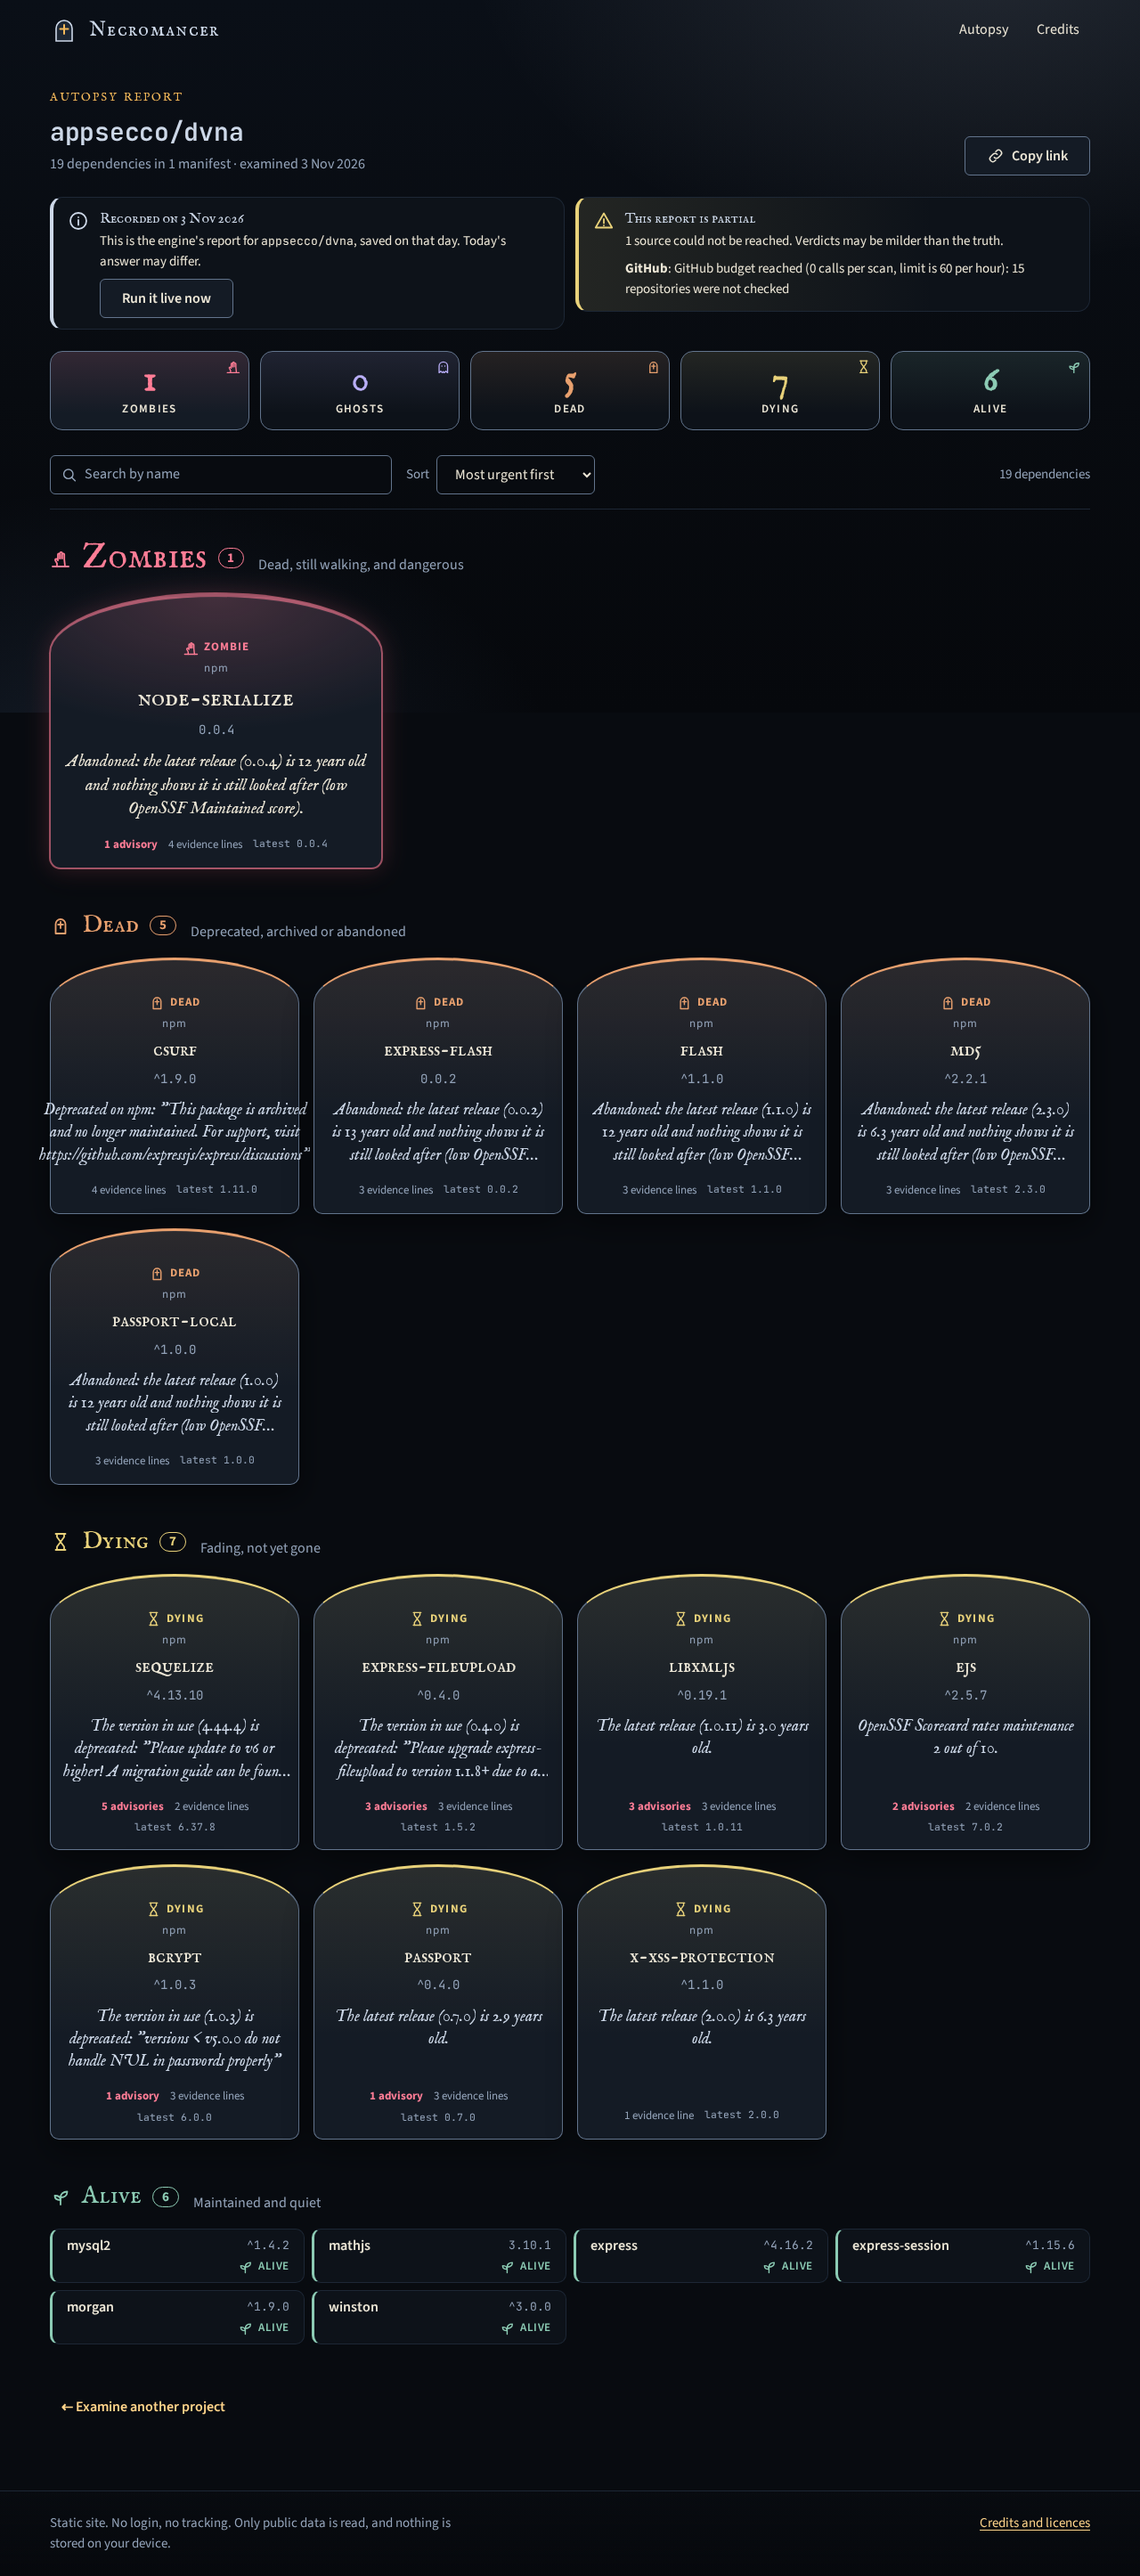
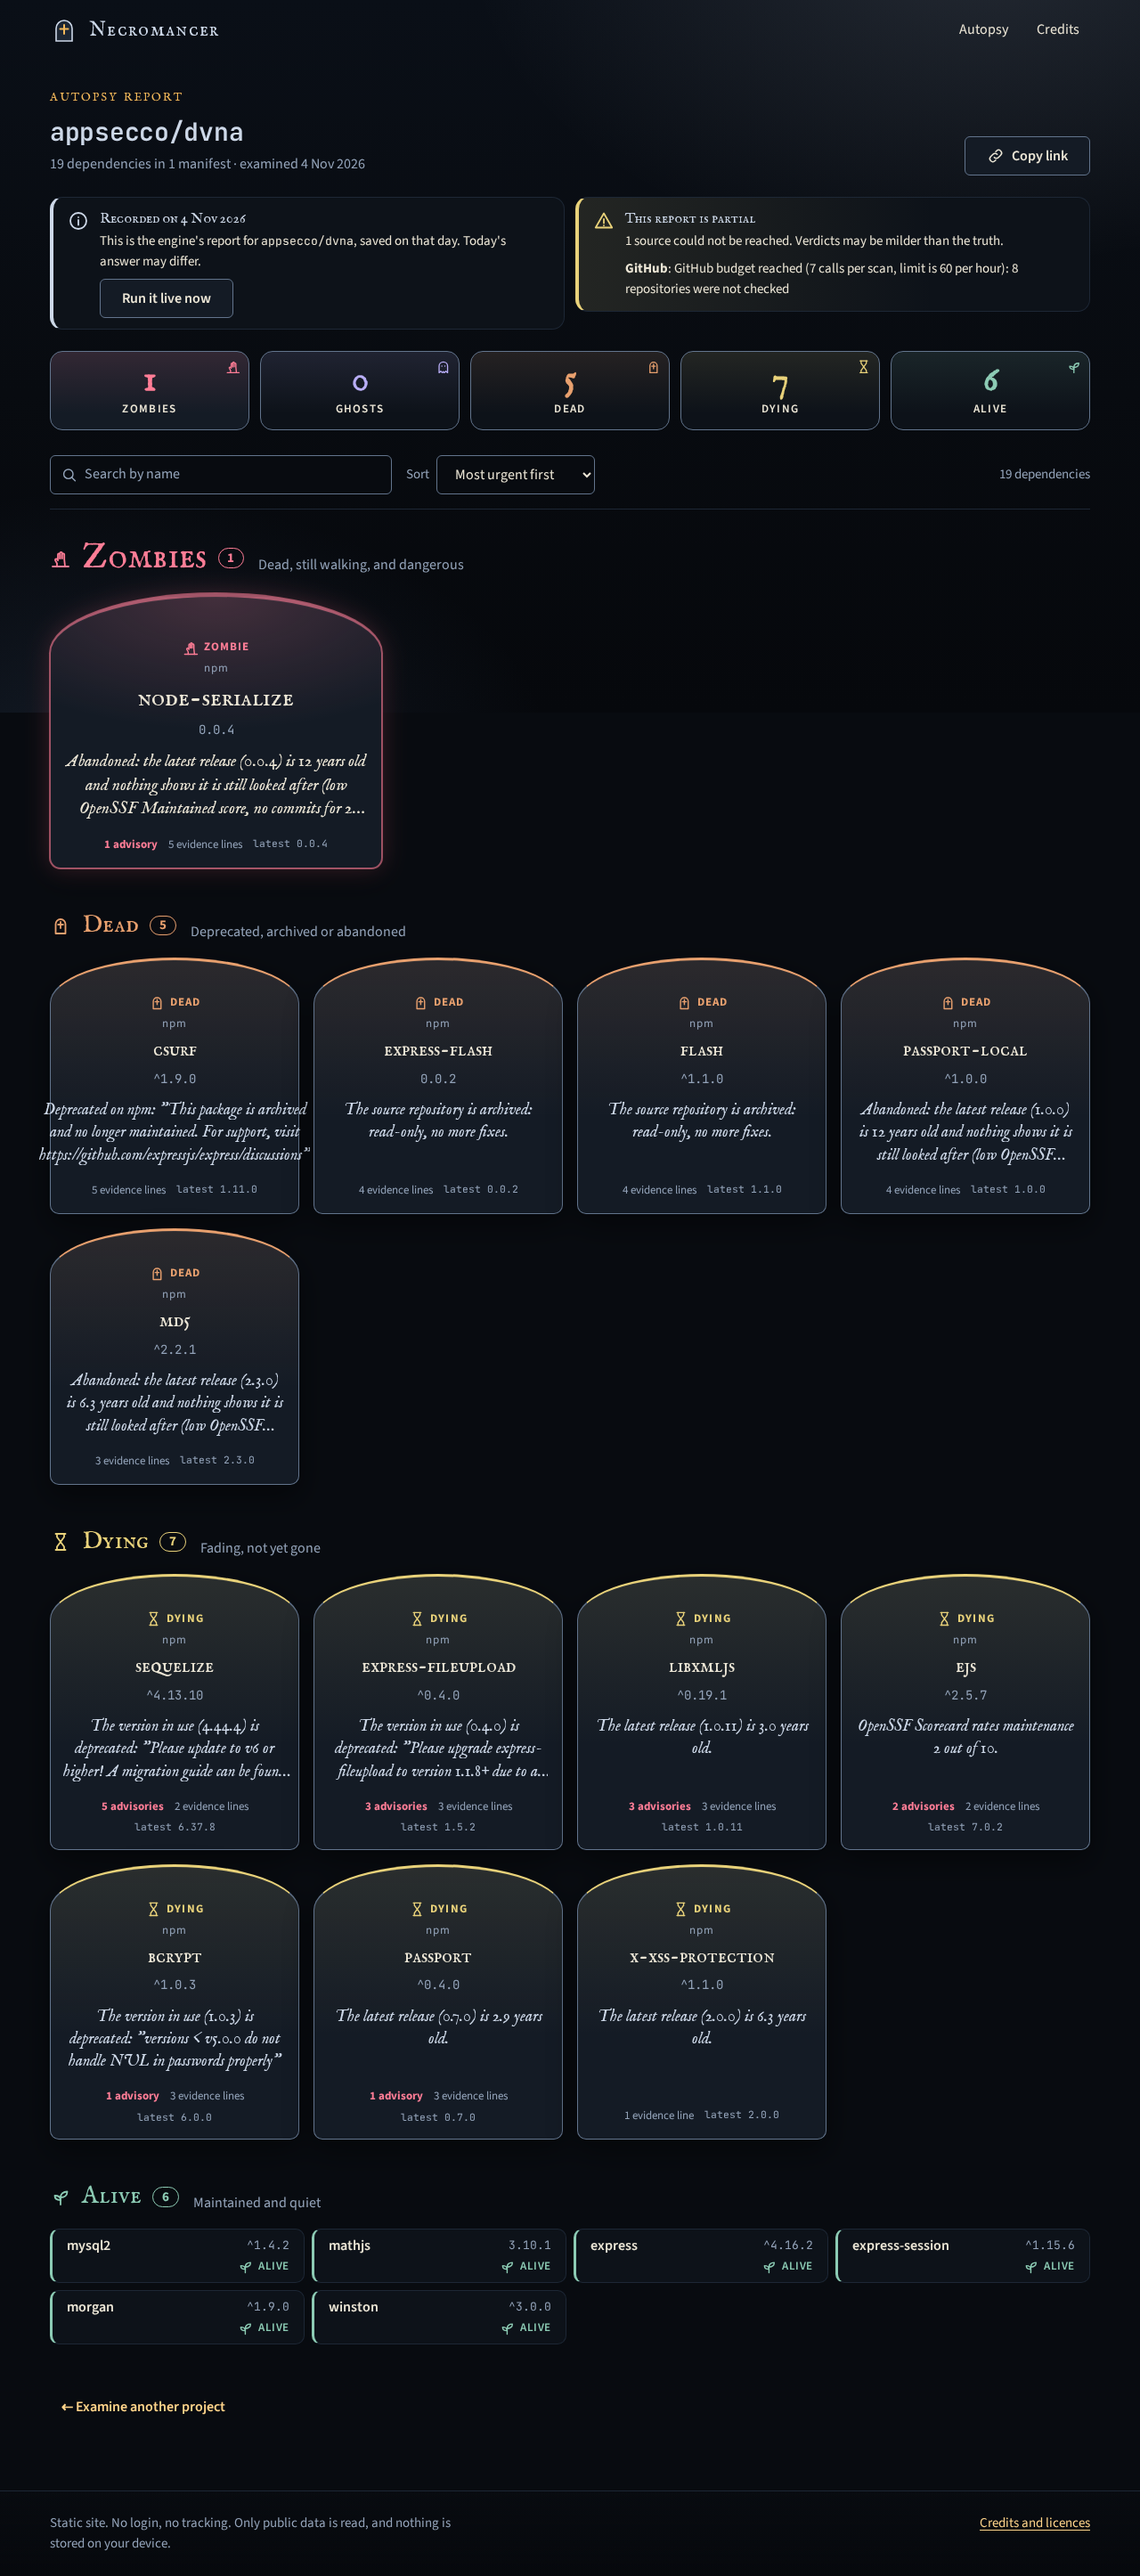
Web: record three real samples, fix e18e stage, wrap long epitaphs, live checks selectable

diff --git a/apps/web/src/ui/About.tsx b/apps/web/src/ui/About.tsx
@@ -43,14 +43,19 @@ export function About() {
       </section>
       <section aria-labelledby="about-data">
         <h2 id="about-data">Where the facts come from</h2>
-        <p>Necromancer reads public data only. No account, no key and no server of ours is involved.</p>
+        <p>Necromancer reads public data only, straight from your browser. No account, no key and no server of ours is involved.</p>
         <ul className="plainlist">
           {SOURCES.map((source) => (
             <li key={source}>{source}</li>
           ))}
         </ul>
         <p>
-          The sample projects hold illustrative findings. They are modelled on real events in the npm and PyPI ecosystems, and some package names in them are invented. They say nothing about any maintainer.
+          The samples on the start page are real. The engine examined those public repositories on the day shown, and
+          the reports are kept exactly as the engine wrote them. Nothing in them was written by hand.
+        </p>
+        <p>
+          A verdict is a reading of public signals, not a judgement of a maintainer. A package can be finished rather
+          than dead, so every verdict shows the evidence behind it.
         </p>
       </section>
       <section aria-labelledby="about-privacy">

diff --git a/apps/web/src/data/samples.generated.ts b/apps/web/src/data/samples.generated.ts
@@ -17,7 +17,7 @@ export const RECORDED_SAMPLES: readonly RecordedSample[] = [
     "id": "appsecco-dvna",
     "repository": "appsecco/dvna",
     "ecosystem": "npm",
-    "recordedAt": "2026-11-03T14:14:40.549Z",
+    "recordedAt": "2026-11-04T00:06:14.482Z",
     "total": 19,
     "summary": {
       "alive": 6,
@@ -31,7 +31,7 @@ export const RECORDED_SAMPLES: readonly RecordedSample[] = [
     "id": "miguelgrinberg-microblog",
     "repository": "miguelgrinberg/microblog",
     "ecosystem": "pypi",
-    "recordedAt": "2026-11-03T14:14:42.127Z",
+    "recordedAt": "2026-11-04T00:06:16.945Z",
     "total": 54,
     "summary": {
       "alive": 36,
@@ -45,7 +45,7 @@ export const RECORDED_SAMPLES: readonly RecordedSample[] = [
     "id": "sickchill-sickchill",
     "repository": "SickChill/sickchill",
     "ecosystem": "both",
-    "recordedAt": "2026-11-03T14:14:44.192Z",
+    "recordedAt": "2026-11-04T00:06:20.919Z",
     "total": 105,
     "summary": {
       "alive": 64,

diff --git a/apps/web/src/data/net.test.ts b/apps/web/src/data/net.test.ts
@@ -6,7 +6,7 @@ const respond = (status: number) => ({ ok: status < 300, status, json: async () 
 describe('R3.1 stages', () => {
   it.each([
     ['https://raw.githubusercontent.com/o/r/HEAD/package.json', 'manifests'],
-    ['https://raw.githubusercontent.com/e18e/module-replacements/main/manifests/native.json', 'repositories'],
+    ['https://raw.githubusercontent.com/es-tooling/module-replacements/main/manifests/native.json', 'repositories'],
     ['https://registry.npmjs.org/left-pad/latest', 'registries'],
     ['https://pypi.org/pypi/six/json', 'registries'],
     ['https://api.deps.dev/v3/systems/npm/packages/left-pad', 'registries'],

diff --git a/apps/web/src/data/net.ts b/apps/web/src/data/net.ts
@@ -42,7 +42,7 @@ export function classify(url: string): { stage: Stage | null; label: string } {
   }
   const { hostname, pathname } = parsed;
   if (hostname === 'raw.githubusercontent.com') {
-    return pathname.startsWith('/e18e/')
+    return pathname.startsWith('/es-tooling/module-replacements/')
       ? { stage: 'repositories', label: 'raw.githubusercontent.com (e18e dataset)' }
       : { stage: 'manifests', label: 'raw.githubusercontent.com (manifests)' };
   }

diff --git a/apps/web/src/ui/app.css b/apps/web/src/ui/app.css
@@ -1260,3 +1260,16 @@
 .notices .callout__action {
   margin-top: var(--space-2);
 }
+
+/* Long URLs in an epitaph must wrap inside the tombstone. */
+.tomb__epitaph,
+.evidence__msg {
+  overflow-wrap: anywhere;
+  max-width: 100%;
+}
+.report__share {
+  flex: none;
+}
+.report__share .btn {
+  white-space: nowrap;
+}

diff --git a/.kiro/specs/live-autopsy/design.md b/.kiro/specs/live-autopsy/design.md
@@ -53,7 +53,7 @@ Notes carry facts that are not in the report: "only the root was read", "a file 
 | Manifests | `raw.githubusercontent.com/<owner>/<repo>/…` |
 | Package registries | `registry.npmjs.org`, `pypi.org`, `api.deps.dev/v3/systems/…` |
 | Advisories | `api.osv.dev` |
-| Repository checks | `api.github.com`, `api.deps.dev/v3/projects/…`, and the e18e dataset on `raw.githubusercontent.com/e18e/…` |
+| Repository checks | `api.github.com`, `api.deps.dev/v3/projects/…`, and the e18e dataset on `raw.githubusercontent.com/es-tooling/module-replacements/…` |
 
 Each stage shows a count of answers and the number in flight. A stage with failures shows the
 count in words ("2 did not answer"). The bar is indeterminate because the engine finds new
